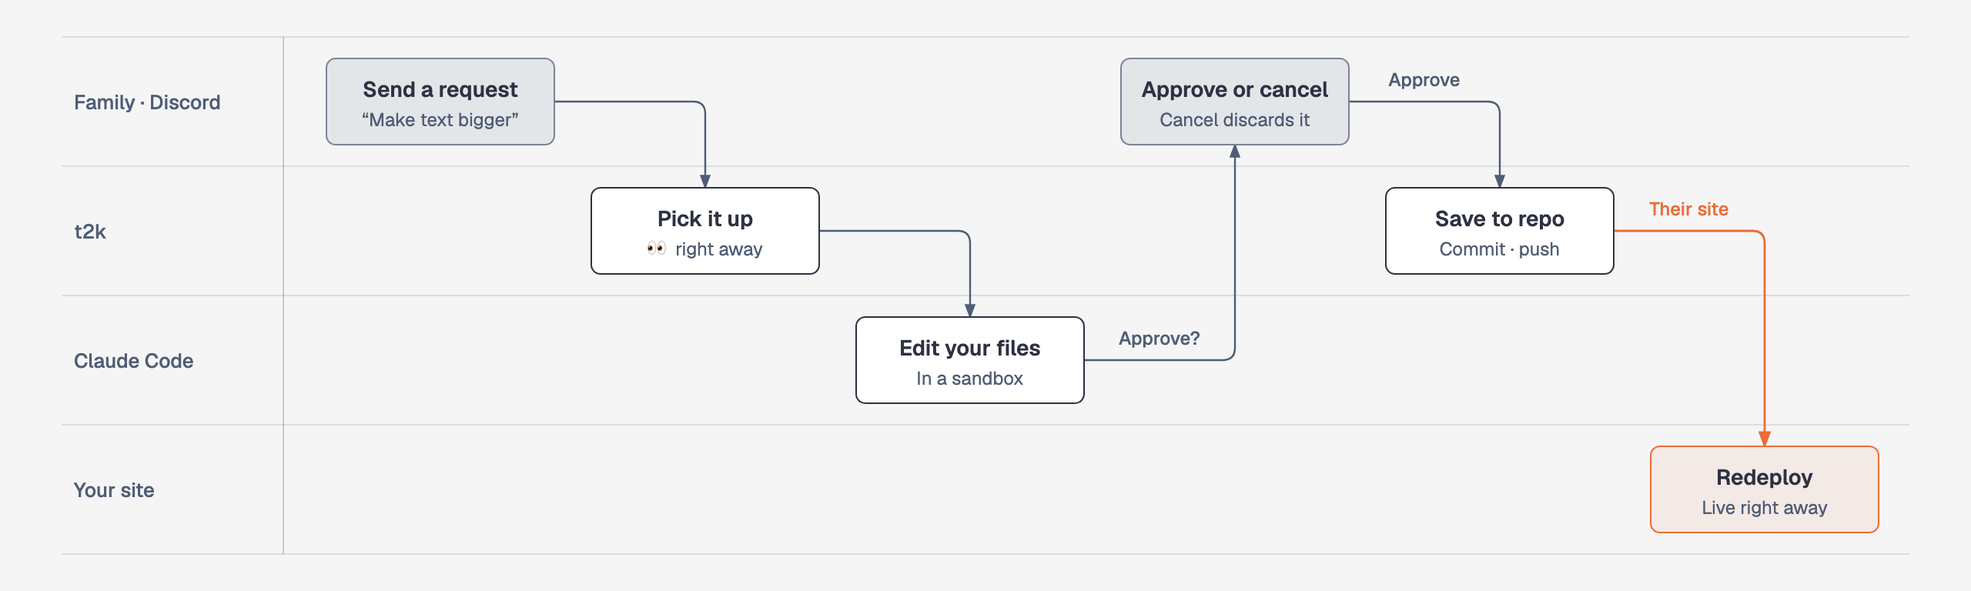
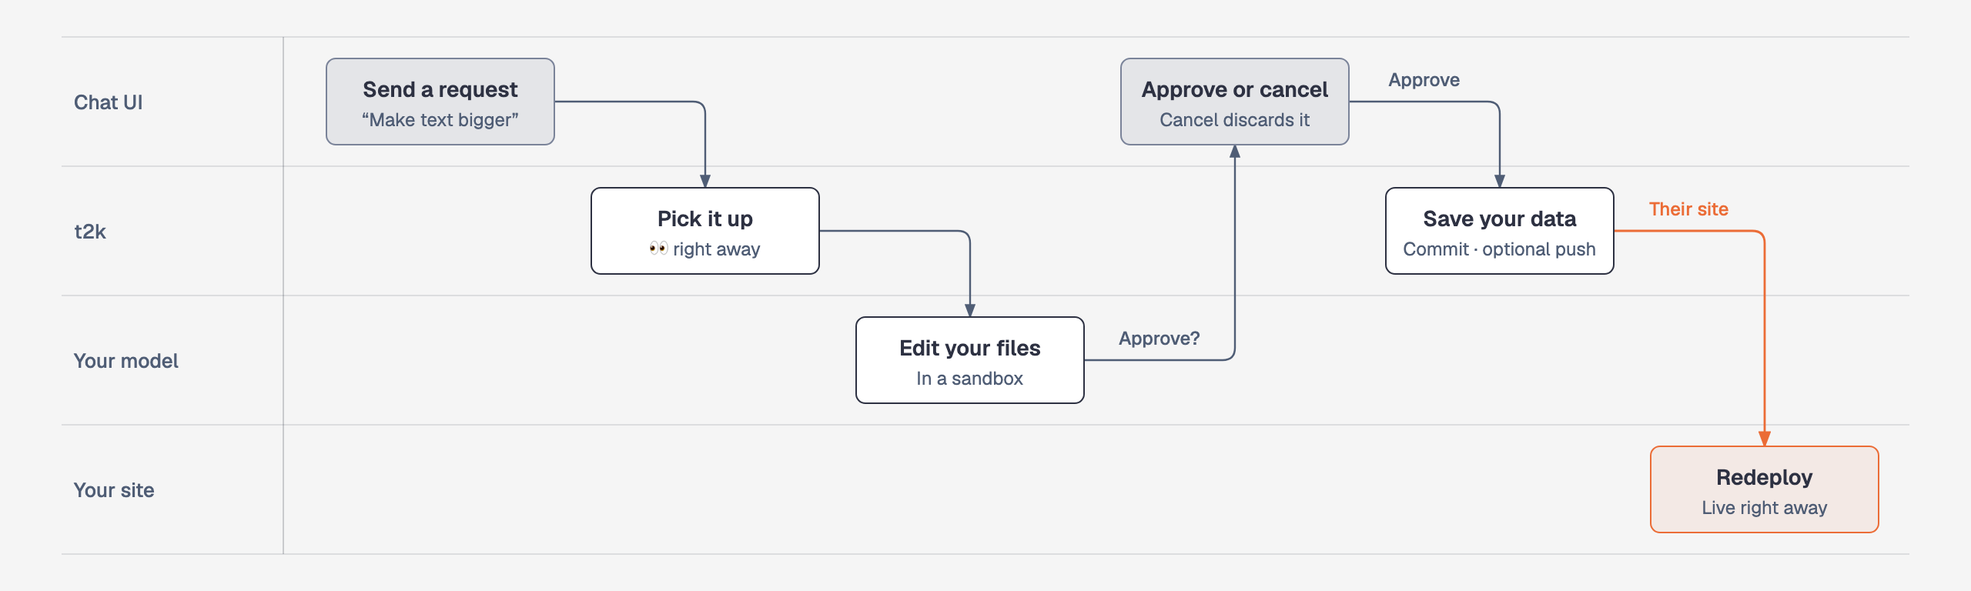
Request-flow diagram: generic lanes and optional push
Lanes now read Chat UI and Your model instead of Discord and Claude
Code, since each part can be swapped. The save step says the change is
committed to your data folder and pushed only when a backup remote is
set, which is what agent.py does.

diff --git a/docs/diagrams/instruct-ko-dark.html b/docs/diagrams/instruct-ko-dark.html
@@ -3,7 +3,7 @@
 <head>
 <meta charset="UTF-8">
 <meta name="viewport" content="width=device-width, initial-scale=1.0">
-<title>디스코드 한 줄로 사이트 고치기</title>
+<title>채팅 한 줄로 사이트 고치기</title>
 <link href="https://fonts.googleapis.com/css2?family=Instrument+Serif:ital@0;1&family=Geist:wght@400;500;600&family=Geist+Mono:wght@400;500;600&family=Noto+Sans+KR:wght@400;500;600&family=Noto+Serif+KR:wght@400&display=swap" rel="stylesheet">
 <style>
   *, *::before, *::after { box-sizing: border-box; margin: 0; padding: 0; }
@@ -17,21 +17,21 @@
 <body>
 <div class="frame">
 <p class="eyebrow">t2k · Diagram Design</p>
-<h1>디스코드 한 줄로 사이트 고치기</h1>
+<h1>채팅 한 줄로 사이트 고치기</h1>
 <svg viewBox="0 0 1280 384" xmlns="http://www.w3.org/2000/svg" role="img" aria-labelledby="instruct-ko-dark-title instruct-ko-dark-desc">
-<title id="instruct-ko-dark-title">디스코드 한 줄로 사이트 고치기</title>
-<desc id="instruct-ko-dark-desc">가족이 디스코드로 보낸 지시를 t2k 가 받아 Claude Code 가 그 사람의 파일만 고치고, 승인을 받은 뒤 그 사람의 사이트만 다시 배포하는 흐름.</desc>
+<title id="instruct-ko-dark-title">채팅 한 줄로 사이트 고치기</title>
+<desc id="instruct-ko-dark-desc">채팅 UI 로 보낸 지시를 t2k 가 받아 사용자의 모델이 그 사람의 파일만 고치고, 승인을 받은 뒤 데이터에 커밋하고(백업 원격이 있으면 푸시) 그 사람의 사이트만 다시 배포하는 흐름.</desc>
 <defs>
   <marker id="arrow" markerWidth="8" markerHeight="6" refX="7" refY="3" orient="auto"><polygon points="0 0, 8 3, 0 6" fill="#bfc0c0"/></marker>
   <marker id="arrow-accent" markerWidth="8" markerHeight="6" refX="7" refY="3" orient="auto"><polygon points="0 0, 8 3, 0 6" fill="#f08a59"/></marker>
 </defs>
 <rect width="100%" height="100%" fill="#2d3142"/>
 <line x1="40" y1="24" x2="1240" y2="24" stroke="rgba(245,245,245,0.12)" stroke-width="1"/>
-<text x="48" y="71.0" fill="#bfc0c0" font-size="13" font-weight="500" font-family="'Geist', 'Noto Sans KR', 'Apple SD Gothic Neo', sans-serif">가족 · Discord</text>
+<text x="48" y="71.0" fill="#bfc0c0" font-size="13" font-weight="500" font-family="'Geist', 'Noto Sans KR', 'Apple SD Gothic Neo', sans-serif">채팅 UI</text>
 <line x1="40" y1="108" x2="1240" y2="108" stroke="rgba(245,245,245,0.12)" stroke-width="1"/>
 <text x="48" y="155.0" fill="#bfc0c0" font-size="13" font-weight="500" font-family="'Geist', 'Noto Sans KR', 'Apple SD Gothic Neo', sans-serif">t2k</text>
 <line x1="40" y1="192" x2="1240" y2="192" stroke="rgba(245,245,245,0.12)" stroke-width="1"/>
-<text x="48" y="239.0" fill="#bfc0c0" font-size="13" font-weight="500" font-family="'Geist', 'Noto Sans KR', 'Apple SD Gothic Neo', sans-serif">Claude Code</text>
+<text x="48" y="239.0" fill="#bfc0c0" font-size="13" font-weight="500" font-family="'Geist', 'Noto Sans KR', 'Apple SD Gothic Neo', sans-serif">내 모델</text>
 <line x1="40" y1="276" x2="1240" y2="276" stroke="rgba(245,245,245,0.12)" stroke-width="1"/>
 <text x="48" y="323.0" fill="#bfc0c0" font-size="13" font-weight="500" font-family="'Geist', 'Noto Sans KR', 'Apple SD Gothic Neo', sans-serif">내 사이트</text>
 <line x1="40" y1="360" x2="1240" y2="360" stroke="rgba(245,245,245,0.12)" stroke-width="1"/>
@@ -48,7 +48,7 @@
 <rect x="384.0" y="122.0" width="148" height="56" rx="6" fill="#2d3142"/><rect x="384.0" y="122.0" width="148" height="56" rx="6" fill="rgba(245,245,245,0.04)" stroke="rgba(245,245,245,0.55)" stroke-width="1"/><text x="458.0" y="147.0" fill="#f5f5f5" font-size="14" font-weight="600" font-family="'Geist', 'Noto Sans KR', 'Apple SD Gothic Neo', sans-serif" text-anchor="middle">지시 접수</text><text x="458.0" y="166.0" fill="#bfc0c0" font-family="'Geist', 'Noto Sans KR', 'Apple SD Gothic Neo', sans-serif" font-size="12" text-anchor="middle">👀 표시 · 바로 처리 시작</text>
 <rect x="556.0" y="206.0" width="148" height="56" rx="6" fill="#2d3142"/><rect x="556.0" y="206.0" width="148" height="56" rx="6" fill="rgba(245,245,245,0.04)" stroke="rgba(245,245,245,0.55)" stroke-width="1"/><text x="630.0" y="231.0" fill="#f5f5f5" font-size="14" font-weight="600" font-family="'Geist', 'Noto Sans KR', 'Apple SD Gothic Neo', sans-serif" text-anchor="middle">내 파일만 수정</text><text x="630.0" y="250.0" fill="#bfc0c0" font-family="'Geist', 'Noto Sans KR', 'Apple SD Gothic Neo', sans-serif" font-size="12" text-anchor="middle">격리된 작업 공간에서</text>
 <rect x="728.0" y="38.0" width="148" height="56" rx="6" fill="#2d3142"/><rect x="728.0" y="38.0" width="148" height="56" rx="6" fill="rgba(191,192,192,0.10)" stroke="#8e98ac" stroke-width="1"/><text x="802.0" y="63.0" fill="#f5f5f5" font-size="14" font-weight="600" font-family="'Geist', 'Noto Sans KR', 'Apple SD Gothic Neo', sans-serif" text-anchor="middle">승인 또는 취소</text><text x="802.0" y="82.0" fill="#bfc0c0" font-family="'Geist', 'Noto Sans KR', 'Apple SD Gothic Neo', sans-serif" font-size="12" text-anchor="middle">취소하면 바로 버린다</text>
-<rect x="900.0" y="122.0" width="148" height="56" rx="6" fill="#2d3142"/><rect x="900.0" y="122.0" width="148" height="56" rx="6" fill="rgba(245,245,245,0.04)" stroke="rgba(245,245,245,0.55)" stroke-width="1"/><text x="974.0" y="147.0" fill="#f5f5f5" font-size="14" font-weight="600" font-family="'Geist', 'Noto Sans KR', 'Apple SD Gothic Neo', sans-serif" text-anchor="middle">저장소에 반영</text><text x="974.0" y="166.0" fill="#bfc0c0" font-family="'Geist', 'Noto Sans KR', 'Apple SD Gothic Neo', sans-serif" font-size="12" text-anchor="middle">커밋 · 푸시</text>
+<rect x="900.0" y="122.0" width="148" height="56" rx="6" fill="#2d3142"/><rect x="900.0" y="122.0" width="148" height="56" rx="6" fill="rgba(245,245,245,0.04)" stroke="rgba(245,245,245,0.55)" stroke-width="1"/><text x="974.0" y="147.0" fill="#f5f5f5" font-size="14" font-weight="600" font-family="'Geist', 'Noto Sans KR', 'Apple SD Gothic Neo', sans-serif" text-anchor="middle">내 데이터에 저장</text><text x="974.0" y="166.0" fill="#bfc0c0" font-family="'Geist', 'Noto Sans KR', 'Apple SD Gothic Neo', sans-serif" font-size="12" text-anchor="middle">커밋 · 푸시(선택)</text>
 <rect x="1072.0" y="290.0" width="148" height="56" rx="6" fill="#2d3142"/><rect x="1072.0" y="290.0" width="148" height="56" rx="6" fill="rgba(240,138,89,0.12)" stroke="#f08a59" stroke-width="1"/><text x="1146.0" y="315.0" fill="#f5f5f5" font-size="14" font-weight="600" font-family="'Geist', 'Noto Sans KR', 'Apple SD Gothic Neo', sans-serif" text-anchor="middle">다시 배포</text><text x="1146.0" y="334.0" fill="#bfc0c0" font-family="'Geist', 'Noto Sans KR', 'Apple SD Gothic Neo', sans-serif" font-size="12" text-anchor="middle">바로 새 모습으로</text>
 </svg>
 </div>

diff --git a/docs/diagrams/instruct-ko-light.html b/docs/diagrams/instruct-ko-light.html
@@ -3,7 +3,7 @@
 <head>
 <meta charset="UTF-8">
 <meta name="viewport" content="width=device-width, initial-scale=1.0">
-<title>디스코드 한 줄로 사이트 고치기</title>
+<title>채팅 한 줄로 사이트 고치기</title>
 <link href="https://fonts.googleapis.com/css2?family=Instrument+Serif:ital@0;1&family=Geist:wght@400;500;600&family=Geist+Mono:wght@400;500;600&family=Noto+Sans+KR:wght@400;500;600&family=Noto+Serif+KR:wght@400&display=swap" rel="stylesheet">
 <style>
   *, *::before, *::after { box-sizing: border-box; margin: 0; padding: 0; }
@@ -17,21 +17,21 @@
 <body>
 <div class="frame">
 <p class="eyebrow">t2k · Diagram Design</p>
-<h1>디스코드 한 줄로 사이트 고치기</h1>
+<h1>채팅 한 줄로 사이트 고치기</h1>
 <svg viewBox="0 0 1280 384" xmlns="http://www.w3.org/2000/svg" role="img" aria-labelledby="instruct-ko-light-title instruct-ko-light-desc">
-<title id="instruct-ko-light-title">디스코드 한 줄로 사이트 고치기</title>
-<desc id="instruct-ko-light-desc">가족이 디스코드로 보낸 지시를 t2k 가 받아 Claude Code 가 그 사람의 파일만 고치고, 승인을 받은 뒤 그 사람의 사이트만 다시 배포하는 흐름.</desc>
+<title id="instruct-ko-light-title">채팅 한 줄로 사이트 고치기</title>
+<desc id="instruct-ko-light-desc">채팅 UI 로 보낸 지시를 t2k 가 받아 사용자의 모델이 그 사람의 파일만 고치고, 승인을 받은 뒤 데이터에 커밋하고(백업 원격이 있으면 푸시) 그 사람의 사이트만 다시 배포하는 흐름.</desc>
 <defs>
   <marker id="arrow" markerWidth="8" markerHeight="6" refX="7" refY="3" orient="auto"><polygon points="0 0, 8 3, 0 6" fill="#4f5d75"/></marker>
   <marker id="arrow-accent" markerWidth="8" markerHeight="6" refX="7" refY="3" orient="auto"><polygon points="0 0, 8 3, 0 6" fill="#eb6c36"/></marker>
 </defs>
 <rect width="100%" height="100%" fill="#f5f5f5"/>
 <line x1="40" y1="24" x2="1240" y2="24" stroke="rgba(45,49,66,0.12)" stroke-width="1"/>
-<text x="48" y="71.0" fill="#4f5d75" font-size="13" font-weight="500" font-family="'Geist', 'Noto Sans KR', 'Apple SD Gothic Neo', sans-serif">가족 · Discord</text>
+<text x="48" y="71.0" fill="#4f5d75" font-size="13" font-weight="500" font-family="'Geist', 'Noto Sans KR', 'Apple SD Gothic Neo', sans-serif">채팅 UI</text>
 <line x1="40" y1="108" x2="1240" y2="108" stroke="rgba(45,49,66,0.12)" stroke-width="1"/>
 <text x="48" y="155.0" fill="#4f5d75" font-size="13" font-weight="500" font-family="'Geist', 'Noto Sans KR', 'Apple SD Gothic Neo', sans-serif">t2k</text>
 <line x1="40" y1="192" x2="1240" y2="192" stroke="rgba(45,49,66,0.12)" stroke-width="1"/>
-<text x="48" y="239.0" fill="#4f5d75" font-size="13" font-weight="500" font-family="'Geist', 'Noto Sans KR', 'Apple SD Gothic Neo', sans-serif">Claude Code</text>
+<text x="48" y="239.0" fill="#4f5d75" font-size="13" font-weight="500" font-family="'Geist', 'Noto Sans KR', 'Apple SD Gothic Neo', sans-serif">내 모델</text>
 <line x1="40" y1="276" x2="1240" y2="276" stroke="rgba(45,49,66,0.12)" stroke-width="1"/>
 <text x="48" y="323.0" fill="#4f5d75" font-size="13" font-weight="500" font-family="'Geist', 'Noto Sans KR', 'Apple SD Gothic Neo', sans-serif">내 사이트</text>
 <line x1="40" y1="360" x2="1240" y2="360" stroke="rgba(45,49,66,0.12)" stroke-width="1"/>
@@ -48,7 +48,7 @@
 <rect x="384.0" y="122.0" width="148" height="56" rx="6" fill="#f5f5f5"/><rect x="384.0" y="122.0" width="148" height="56" rx="6" fill="#ffffff" stroke="#2d3142" stroke-width="1"/><text x="458.0" y="147.0" fill="#2d3142" font-size="14" font-weight="600" font-family="'Geist', 'Noto Sans KR', 'Apple SD Gothic Neo', sans-serif" text-anchor="middle">지시 접수</text><text x="458.0" y="166.0" fill="#4f5d75" font-family="'Geist', 'Noto Sans KR', 'Apple SD Gothic Neo', sans-serif" font-size="12" text-anchor="middle">👀 표시 · 바로 처리 시작</text>
 <rect x="556.0" y="206.0" width="148" height="56" rx="6" fill="#f5f5f5"/><rect x="556.0" y="206.0" width="148" height="56" rx="6" fill="#ffffff" stroke="#2d3142" stroke-width="1"/><text x="630.0" y="231.0" fill="#2d3142" font-size="14" font-weight="600" font-family="'Geist', 'Noto Sans KR', 'Apple SD Gothic Neo', sans-serif" text-anchor="middle">내 파일만 수정</text><text x="630.0" y="250.0" fill="#4f5d75" font-family="'Geist', 'Noto Sans KR', 'Apple SD Gothic Neo', sans-serif" font-size="12" text-anchor="middle">격리된 작업 공간에서</text>
 <rect x="728.0" y="38.0" width="148" height="56" rx="6" fill="#f5f5f5"/><rect x="728.0" y="38.0" width="148" height="56" rx="6" fill="rgba(79,93,117,0.10)" stroke="#7a8399" stroke-width="1"/><text x="802.0" y="63.0" fill="#2d3142" font-size="14" font-weight="600" font-family="'Geist', 'Noto Sans KR', 'Apple SD Gothic Neo', sans-serif" text-anchor="middle">승인 또는 취소</text><text x="802.0" y="82.0" fill="#4f5d75" font-family="'Geist', 'Noto Sans KR', 'Apple SD Gothic Neo', sans-serif" font-size="12" text-anchor="middle">취소하면 바로 버린다</text>
-<rect x="900.0" y="122.0" width="148" height="56" rx="6" fill="#f5f5f5"/><rect x="900.0" y="122.0" width="148" height="56" rx="6" fill="#ffffff" stroke="#2d3142" stroke-width="1"/><text x="974.0" y="147.0" fill="#2d3142" font-size="14" font-weight="600" font-family="'Geist', 'Noto Sans KR', 'Apple SD Gothic Neo', sans-serif" text-anchor="middle">저장소에 반영</text><text x="974.0" y="166.0" fill="#4f5d75" font-family="'Geist', 'Noto Sans KR', 'Apple SD Gothic Neo', sans-serif" font-size="12" text-anchor="middle">커밋 · 푸시</text>
+<rect x="900.0" y="122.0" width="148" height="56" rx="6" fill="#f5f5f5"/><rect x="900.0" y="122.0" width="148" height="56" rx="6" fill="#ffffff" stroke="#2d3142" stroke-width="1"/><text x="974.0" y="147.0" fill="#2d3142" font-size="14" font-weight="600" font-family="'Geist', 'Noto Sans KR', 'Apple SD Gothic Neo', sans-serif" text-anchor="middle">내 데이터에 저장</text><text x="974.0" y="166.0" fill="#4f5d75" font-family="'Geist', 'Noto Sans KR', 'Apple SD Gothic Neo', sans-serif" font-size="12" text-anchor="middle">커밋 · 푸시(선택)</text>
 <rect x="1072.0" y="290.0" width="148" height="56" rx="6" fill="#f5f5f5"/><rect x="1072.0" y="290.0" width="148" height="56" rx="6" fill="rgba(235,108,54,0.08)" stroke="#eb6c36" stroke-width="1"/><text x="1146.0" y="315.0" fill="#2d3142" font-size="14" font-weight="600" font-family="'Geist', 'Noto Sans KR', 'Apple SD Gothic Neo', sans-serif" text-anchor="middle">다시 배포</text><text x="1146.0" y="334.0" fill="#4f5d75" font-family="'Geist', 'Noto Sans KR', 'Apple SD Gothic Neo', sans-serif" font-size="12" text-anchor="middle">바로 새 모습으로</text>
 </svg>
 </div>

diff --git a/docs/diagrams/instruct-en-dark.html b/docs/diagrams/instruct-en-dark.html
@@ -3,7 +3,7 @@
 <head>
 <meta charset="UTF-8">
 <meta name="viewport" content="width=device-width, initial-scale=1.0">
-<title>Change your site with one Discord message</title>
+<title>Change your site with one chat message</title>
 <link href="https://fonts.googleapis.com/css2?family=Instrument+Serif:ital@0;1&family=Geist:wght@400;500;600&family=Geist+Mono:wght@400;500;600&family=Noto+Sans+KR:wght@400;500;600&family=Noto+Serif+KR:wght@400&display=swap" rel="stylesheet">
 <style>
   *, *::before, *::after { box-sizing: border-box; margin: 0; padding: 0; }
@@ -17,21 +17,21 @@
 <body>
 <div class="frame">
 <p class="eyebrow">t2k · Diagram Design</p>
-<h1>Change your site with one Discord message</h1>
+<h1>Change your site with one chat message</h1>
 <svg viewBox="0 0 1280 384" xmlns="http://www.w3.org/2000/svg" role="img" aria-labelledby="instruct-en-dark-title instruct-en-dark-desc">
-<title id="instruct-en-dark-title">Change your site with one Discord message</title>
-<desc id="instruct-en-dark-desc">A family member sends a request in Discord; t2k picks it up, Claude Code edits only that person's files, and after approval only their site is redeployed.</desc>
+<title id="instruct-en-dark-title">Change your site with one chat message</title>
+<desc id="instruct-en-dark-desc">A request sent from the chat UI is picked up by t2k; your model edits only that person's files, and after approval the change is committed to their data (pushed only if a backup remote is set) and only their site is redeployed.</desc>
 <defs>
   <marker id="arrow" markerWidth="8" markerHeight="6" refX="7" refY="3" orient="auto"><polygon points="0 0, 8 3, 0 6" fill="#bfc0c0"/></marker>
   <marker id="arrow-accent" markerWidth="8" markerHeight="6" refX="7" refY="3" orient="auto"><polygon points="0 0, 8 3, 0 6" fill="#f08a59"/></marker>
 </defs>
 <rect width="100%" height="100%" fill="#2d3142"/>
 <line x1="40" y1="24" x2="1240" y2="24" stroke="rgba(245,245,245,0.12)" stroke-width="1"/>
-<text x="48" y="71.0" fill="#bfc0c0" font-size="13" font-weight="500" font-family="'Geist', 'Noto Sans KR', 'Apple SD Gothic Neo', sans-serif">Family · Discord</text>
+<text x="48" y="71.0" fill="#bfc0c0" font-size="13" font-weight="500" font-family="'Geist', 'Noto Sans KR', 'Apple SD Gothic Neo', sans-serif">Chat UI</text>
 <line x1="40" y1="108" x2="1240" y2="108" stroke="rgba(245,245,245,0.12)" stroke-width="1"/>
 <text x="48" y="155.0" fill="#bfc0c0" font-size="13" font-weight="500" font-family="'Geist', 'Noto Sans KR', 'Apple SD Gothic Neo', sans-serif">t2k</text>
 <line x1="40" y1="192" x2="1240" y2="192" stroke="rgba(245,245,245,0.12)" stroke-width="1"/>
-<text x="48" y="239.0" fill="#bfc0c0" font-size="13" font-weight="500" font-family="'Geist', 'Noto Sans KR', 'Apple SD Gothic Neo', sans-serif">Claude Code</text>
+<text x="48" y="239.0" fill="#bfc0c0" font-size="13" font-weight="500" font-family="'Geist', 'Noto Sans KR', 'Apple SD Gothic Neo', sans-serif">Your model</text>
 <line x1="40" y1="276" x2="1240" y2="276" stroke="rgba(245,245,245,0.12)" stroke-width="1"/>
 <text x="48" y="323.0" fill="#bfc0c0" font-size="13" font-weight="500" font-family="'Geist', 'Noto Sans KR', 'Apple SD Gothic Neo', sans-serif">Your site</text>
 <line x1="40" y1="360" x2="1240" y2="360" stroke="rgba(245,245,245,0.12)" stroke-width="1"/>
@@ -48,7 +48,7 @@
 <rect x="384.0" y="122.0" width="148" height="56" rx="6" fill="#2d3142"/><rect x="384.0" y="122.0" width="148" height="56" rx="6" fill="rgba(245,245,245,0.04)" stroke="rgba(245,245,245,0.55)" stroke-width="1"/><text x="458.0" y="147.0" fill="#f5f5f5" font-size="14" font-weight="600" font-family="'Geist', 'Noto Sans KR', 'Apple SD Gothic Neo', sans-serif" text-anchor="middle">Pick it up</text><text x="458.0" y="166.0" fill="#bfc0c0" font-family="'Geist', 'Noto Sans KR', 'Apple SD Gothic Neo', sans-serif" font-size="12" text-anchor="middle">👀 right away</text>
 <rect x="556.0" y="206.0" width="148" height="56" rx="6" fill="#2d3142"/><rect x="556.0" y="206.0" width="148" height="56" rx="6" fill="rgba(245,245,245,0.04)" stroke="rgba(245,245,245,0.55)" stroke-width="1"/><text x="630.0" y="231.0" fill="#f5f5f5" font-size="14" font-weight="600" font-family="'Geist', 'Noto Sans KR', 'Apple SD Gothic Neo', sans-serif" text-anchor="middle">Edit your files</text><text x="630.0" y="250.0" fill="#bfc0c0" font-family="'Geist', 'Noto Sans KR', 'Apple SD Gothic Neo', sans-serif" font-size="12" text-anchor="middle">In a sandbox</text>
 <rect x="728.0" y="38.0" width="148" height="56" rx="6" fill="#2d3142"/><rect x="728.0" y="38.0" width="148" height="56" rx="6" fill="rgba(191,192,192,0.10)" stroke="#8e98ac" stroke-width="1"/><text x="802.0" y="63.0" fill="#f5f5f5" font-size="14" font-weight="600" font-family="'Geist', 'Noto Sans KR', 'Apple SD Gothic Neo', sans-serif" text-anchor="middle">Approve or cancel</text><text x="802.0" y="82.0" fill="#bfc0c0" font-family="'Geist', 'Noto Sans KR', 'Apple SD Gothic Neo', sans-serif" font-size="12" text-anchor="middle">Cancel discards it</text>
-<rect x="900.0" y="122.0" width="148" height="56" rx="6" fill="#2d3142"/><rect x="900.0" y="122.0" width="148" height="56" rx="6" fill="rgba(245,245,245,0.04)" stroke="rgba(245,245,245,0.55)" stroke-width="1"/><text x="974.0" y="147.0" fill="#f5f5f5" font-size="14" font-weight="600" font-family="'Geist', 'Noto Sans KR', 'Apple SD Gothic Neo', sans-serif" text-anchor="middle">Save to repo</text><text x="974.0" y="166.0" fill="#bfc0c0" font-family="'Geist', 'Noto Sans KR', 'Apple SD Gothic Neo', sans-serif" font-size="12" text-anchor="middle">Commit · push</text>
+<rect x="900.0" y="122.0" width="148" height="56" rx="6" fill="#2d3142"/><rect x="900.0" y="122.0" width="148" height="56" rx="6" fill="rgba(245,245,245,0.04)" stroke="rgba(245,245,245,0.55)" stroke-width="1"/><text x="974.0" y="147.0" fill="#f5f5f5" font-size="14" font-weight="600" font-family="'Geist', 'Noto Sans KR', 'Apple SD Gothic Neo', sans-serif" text-anchor="middle">Save your data</text><text x="974.0" y="166.0" fill="#bfc0c0" font-family="'Geist', 'Noto Sans KR', 'Apple SD Gothic Neo', sans-serif" font-size="12" text-anchor="middle">Commit · optional push</text>
 <rect x="1072.0" y="290.0" width="148" height="56" rx="6" fill="#2d3142"/><rect x="1072.0" y="290.0" width="148" height="56" rx="6" fill="rgba(240,138,89,0.12)" stroke="#f08a59" stroke-width="1"/><text x="1146.0" y="315.0" fill="#f5f5f5" font-size="14" font-weight="600" font-family="'Geist', 'Noto Sans KR', 'Apple SD Gothic Neo', sans-serif" text-anchor="middle">Redeploy</text><text x="1146.0" y="334.0" fill="#bfc0c0" font-family="'Geist', 'Noto Sans KR', 'Apple SD Gothic Neo', sans-serif" font-size="12" text-anchor="middle">Live right away</text>
 </svg>
 </div>

diff --git a/docs/diagrams/instruct-en-light.html b/docs/diagrams/instruct-en-light.html
@@ -3,7 +3,7 @@
 <head>
 <meta charset="UTF-8">
 <meta name="viewport" content="width=device-width, initial-scale=1.0">
-<title>Change your site with one Discord message</title>
+<title>Change your site with one chat message</title>
 <link href="https://fonts.googleapis.com/css2?family=Instrument+Serif:ital@0;1&family=Geist:wght@400;500;600&family=Geist+Mono:wght@400;500;600&family=Noto+Sans+KR:wght@400;500;600&family=Noto+Serif+KR:wght@400&display=swap" rel="stylesheet">
 <style>
   *, *::before, *::after { box-sizing: border-box; margin: 0; padding: 0; }
@@ -17,21 +17,21 @@
 <body>
 <div class="frame">
 <p class="eyebrow">t2k · Diagram Design</p>
-<h1>Change your site with one Discord message</h1>
+<h1>Change your site with one chat message</h1>
 <svg viewBox="0 0 1280 384" xmlns="http://www.w3.org/2000/svg" role="img" aria-labelledby="instruct-en-light-title instruct-en-light-desc">
-<title id="instruct-en-light-title">Change your site with one Discord message</title>
-<desc id="instruct-en-light-desc">A family member sends a request in Discord; t2k picks it up, Claude Code edits only that person's files, and after approval only their site is redeployed.</desc>
+<title id="instruct-en-light-title">Change your site with one chat message</title>
+<desc id="instruct-en-light-desc">A request sent from the chat UI is picked up by t2k; your model edits only that person's files, and after approval the change is committed to their data (pushed only if a backup remote is set) and only their site is redeployed.</desc>
 <defs>
   <marker id="arrow" markerWidth="8" markerHeight="6" refX="7" refY="3" orient="auto"><polygon points="0 0, 8 3, 0 6" fill="#4f5d75"/></marker>
   <marker id="arrow-accent" markerWidth="8" markerHeight="6" refX="7" refY="3" orient="auto"><polygon points="0 0, 8 3, 0 6" fill="#eb6c36"/></marker>
 </defs>
 <rect width="100%" height="100%" fill="#f5f5f5"/>
 <line x1="40" y1="24" x2="1240" y2="24" stroke="rgba(45,49,66,0.12)" stroke-width="1"/>
-<text x="48" y="71.0" fill="#4f5d75" font-size="13" font-weight="500" font-family="'Geist', 'Noto Sans KR', 'Apple SD Gothic Neo', sans-serif">Family · Discord</text>
+<text x="48" y="71.0" fill="#4f5d75" font-size="13" font-weight="500" font-family="'Geist', 'Noto Sans KR', 'Apple SD Gothic Neo', sans-serif">Chat UI</text>
 <line x1="40" y1="108" x2="1240" y2="108" stroke="rgba(45,49,66,0.12)" stroke-width="1"/>
 <text x="48" y="155.0" fill="#4f5d75" font-size="13" font-weight="500" font-family="'Geist', 'Noto Sans KR', 'Apple SD Gothic Neo', sans-serif">t2k</text>
 <line x1="40" y1="192" x2="1240" y2="192" stroke="rgba(45,49,66,0.12)" stroke-width="1"/>
-<text x="48" y="239.0" fill="#4f5d75" font-size="13" font-weight="500" font-family="'Geist', 'Noto Sans KR', 'Apple SD Gothic Neo', sans-serif">Claude Code</text>
+<text x="48" y="239.0" fill="#4f5d75" font-size="13" font-weight="500" font-family="'Geist', 'Noto Sans KR', 'Apple SD Gothic Neo', sans-serif">Your model</text>
 <line x1="40" y1="276" x2="1240" y2="276" stroke="rgba(45,49,66,0.12)" stroke-width="1"/>
 <text x="48" y="323.0" fill="#4f5d75" font-size="13" font-weight="500" font-family="'Geist', 'Noto Sans KR', 'Apple SD Gothic Neo', sans-serif">Your site</text>
 <line x1="40" y1="360" x2="1240" y2="360" stroke="rgba(45,49,66,0.12)" stroke-width="1"/>
@@ -48,7 +48,7 @@
 <rect x="384.0" y="122.0" width="148" height="56" rx="6" fill="#f5f5f5"/><rect x="384.0" y="122.0" width="148" height="56" rx="6" fill="#ffffff" stroke="#2d3142" stroke-width="1"/><text x="458.0" y="147.0" fill="#2d3142" font-size="14" font-weight="600" font-family="'Geist', 'Noto Sans KR', 'Apple SD Gothic Neo', sans-serif" text-anchor="middle">Pick it up</text><text x="458.0" y="166.0" fill="#4f5d75" font-family="'Geist', 'Noto Sans KR', 'Apple SD Gothic Neo', sans-serif" font-size="12" text-anchor="middle">👀 right away</text>
 <rect x="556.0" y="206.0" width="148" height="56" rx="6" fill="#f5f5f5"/><rect x="556.0" y="206.0" width="148" height="56" rx="6" fill="#ffffff" stroke="#2d3142" stroke-width="1"/><text x="630.0" y="231.0" fill="#2d3142" font-size="14" font-weight="600" font-family="'Geist', 'Noto Sans KR', 'Apple SD Gothic Neo', sans-serif" text-anchor="middle">Edit your files</text><text x="630.0" y="250.0" fill="#4f5d75" font-family="'Geist', 'Noto Sans KR', 'Apple SD Gothic Neo', sans-serif" font-size="12" text-anchor="middle">In a sandbox</text>
 <rect x="728.0" y="38.0" width="148" height="56" rx="6" fill="#f5f5f5"/><rect x="728.0" y="38.0" width="148" height="56" rx="6" fill="rgba(79,93,117,0.10)" stroke="#7a8399" stroke-width="1"/><text x="802.0" y="63.0" fill="#2d3142" font-size="14" font-weight="600" font-family="'Geist', 'Noto Sans KR', 'Apple SD Gothic Neo', sans-serif" text-anchor="middle">Approve or cancel</text><text x="802.0" y="82.0" fill="#4f5d75" font-family="'Geist', 'Noto Sans KR', 'Apple SD Gothic Neo', sans-serif" font-size="12" text-anchor="middle">Cancel discards it</text>
-<rect x="900.0" y="122.0" width="148" height="56" rx="6" fill="#f5f5f5"/><rect x="900.0" y="122.0" width="148" height="56" rx="6" fill="#ffffff" stroke="#2d3142" stroke-width="1"/><text x="974.0" y="147.0" fill="#2d3142" font-size="14" font-weight="600" font-family="'Geist', 'Noto Sans KR', 'Apple SD Gothic Neo', sans-serif" text-anchor="middle">Save to repo</text><text x="974.0" y="166.0" fill="#4f5d75" font-family="'Geist', 'Noto Sans KR', 'Apple SD Gothic Neo', sans-serif" font-size="12" text-anchor="middle">Commit · push</text>
+<rect x="900.0" y="122.0" width="148" height="56" rx="6" fill="#f5f5f5"/><rect x="900.0" y="122.0" width="148" height="56" rx="6" fill="#ffffff" stroke="#2d3142" stroke-width="1"/><text x="974.0" y="147.0" fill="#2d3142" font-size="14" font-weight="600" font-family="'Geist', 'Noto Sans KR', 'Apple SD Gothic Neo', sans-serif" text-anchor="middle">Save your data</text><text x="974.0" y="166.0" fill="#4f5d75" font-family="'Geist', 'Noto Sans KR', 'Apple SD Gothic Neo', sans-serif" font-size="12" text-anchor="middle">Commit · optional push</text>
 <rect x="1072.0" y="290.0" width="148" height="56" rx="6" fill="#f5f5f5"/><rect x="1072.0" y="290.0" width="148" height="56" rx="6" fill="rgba(235,108,54,0.08)" stroke="#eb6c36" stroke-width="1"/><text x="1146.0" y="315.0" fill="#2d3142" font-size="14" font-weight="600" font-family="'Geist', 'Noto Sans KR', 'Apple SD Gothic Neo', sans-serif" text-anchor="middle">Redeploy</text><text x="1146.0" y="334.0" fill="#4f5d75" font-family="'Geist', 'Noto Sans KR', 'Apple SD Gothic Neo', sans-serif" font-size="12" text-anchor="middle">Live right away</text>
 </svg>
 </div>

diff --git a/docs/diagrams/build.py b/docs/diagrams/build.py
@@ -162,11 +162,11 @@ TEXT = {
         "flow_steps": [("링크 올리기", "디스코드 채널에 붙여 넣기"), ("자막 추출", "yt-dlp"), ("요약 · 분류", "내 관심사와 카테고리로"),
                        ("사이트 배포", "로그인해야 열리는 사이트"), ("디스코드 알림", "✅ 요약 주소로 답장")],
         "flow_auto": "여기부터 자동 · 1분 주기",
-        "instruct": ("디스코드 한 줄로 사이트 고치기",
-                     "가족이 디스코드로 보낸 지시를 t2k 가 받아 Claude Code 가 그 사람의 파일만 고치고, 승인을 받은 뒤 그 사람의 사이트만 다시 배포하는 흐름."),
-        "lanes": ["가족 · Discord", "t2k", "Claude Code", "내 사이트"],
+        "instruct": ("채팅 한 줄로 사이트 고치기",
+                     "채팅 UI 로 보낸 지시를 t2k 가 받아 사용자의 모델이 그 사람의 파일만 고치고, 승인을 받은 뒤 데이터에 커밋하고(백업 원격이 있으면 푸시) 그 사람의 사이트만 다시 배포하는 흐름."),
+        "lanes": ["채팅 UI", "t2k", "내 모델", "내 사이트"],
         "nodes": [("지시 보내기", "“글씨를 더 크게 해 줘”"), ("지시 접수", "👀 표시 · 바로 처리 시작"), ("내 파일만 수정", "격리된 작업 공간에서"),
-                  ("승인 또는 취소", "취소하면 바로 버린다"), ("저장소에 반영", "커밋 · 푸시"), ("다시 배포", "바로 새 모습으로")],
+                  ("승인 또는 취소", "취소하면 바로 버린다"), ("내 데이터에 저장", "커밋 · 푸시(선택)"), ("다시 배포", "바로 새 모습으로")],
         "arrows": ["승인 요청", "승인", "그 사람 사이트만"],
     },
     "en": {
@@ -175,11 +175,11 @@ TEXT = {
         "flow_steps": [("Share a link", "Paste into your channel"), ("Get captions", "yt-dlp"), ("Summarize & file", "Using your interests"),
                        ("Publish", "To your private site"), ("Notify", "✅ Reply with the link")],
         "flow_auto": "Automatic from here · every minute",
-        "instruct": ("Change your site with one Discord message",
-                     "A family member sends a request in Discord; t2k picks it up, Claude Code edits only that person's files, and after approval only their site is redeployed."),
-        "lanes": ["Family · Discord", "t2k", "Claude Code", "Your site"],
+        "instruct": ("Change your site with one chat message",
+                     "A request sent from the chat UI is picked up by t2k; your model edits only that person's files, and after approval the change is committed to their data (pushed only if a backup remote is set) and only their site is redeployed."),
+        "lanes": ["Chat UI", "t2k", "Your model", "Your site"],
         "nodes": [("Send a request", "“Make text bigger”"), ("Pick it up", "👀 right away"), ("Edit your files", "In a sandbox"),
-                  ("Approve or cancel", "Cancel discards it"), ("Save to repo", "Commit · push"), ("Redeploy", "Live right away")],
+                  ("Approve or cancel", "Cancel discards it"), ("Save your data", "Commit · optional push"), ("Redeploy", "Live right away")],
         "arrows": ["Approve?", "Approve", "Their site"],
     },
 }

diff --git a/README.ko.md b/README.ko.md
@@ -50,7 +50,7 @@ AI 코딩 에이전트에게 설치를 맡기면 된다. 맥에서 [Claude Code]
 
 <picture>
   <source media="(prefers-color-scheme: dark)" srcset="docs/images/ko/instruct-dark.png">
-  <img alt="지시 흐름: 디스코드로 요청하면 내 파일만 고치고, 승인하거나 취소하면, 내 사이트만 갱신된다." src="docs/images/ko/instruct-light.png">
+  <img alt="지시 흐름: 채팅으로 요청하면 내 모델이 내 파일만 고치고, 승인하거나 취소한다. 승인하면 내 데이터에 저장하고 내 사이트만 다시 배포한다." src="docs/images/ko/instruct-light.png">
 </picture>
 
 내 채널에 링크 없이 글을 쓰면 된다. 예:

diff --git a/README.md b/README.md
@@ -50,7 +50,7 @@ You share a link. Everything after that happens on its own: your Mac reads the c
 
 <picture>
   <source media="(prefers-color-scheme: dark)" srcset="docs/images/en/instruct-dark.png">
-  <img alt="Request flow: send a request in Discord, the change is made on your files only, you approve or cancel, and only your site is updated." src="docs/images/en/instruct-light.png">
+  <img alt="Request flow: send a request from your chat app, your model changes only your files, you approve or cancel, the change is saved to your data, and only your site is redeployed." src="docs/images/en/instruct-light.png">
 </picture>
 
 Write a message without a link in your channel, for example:
